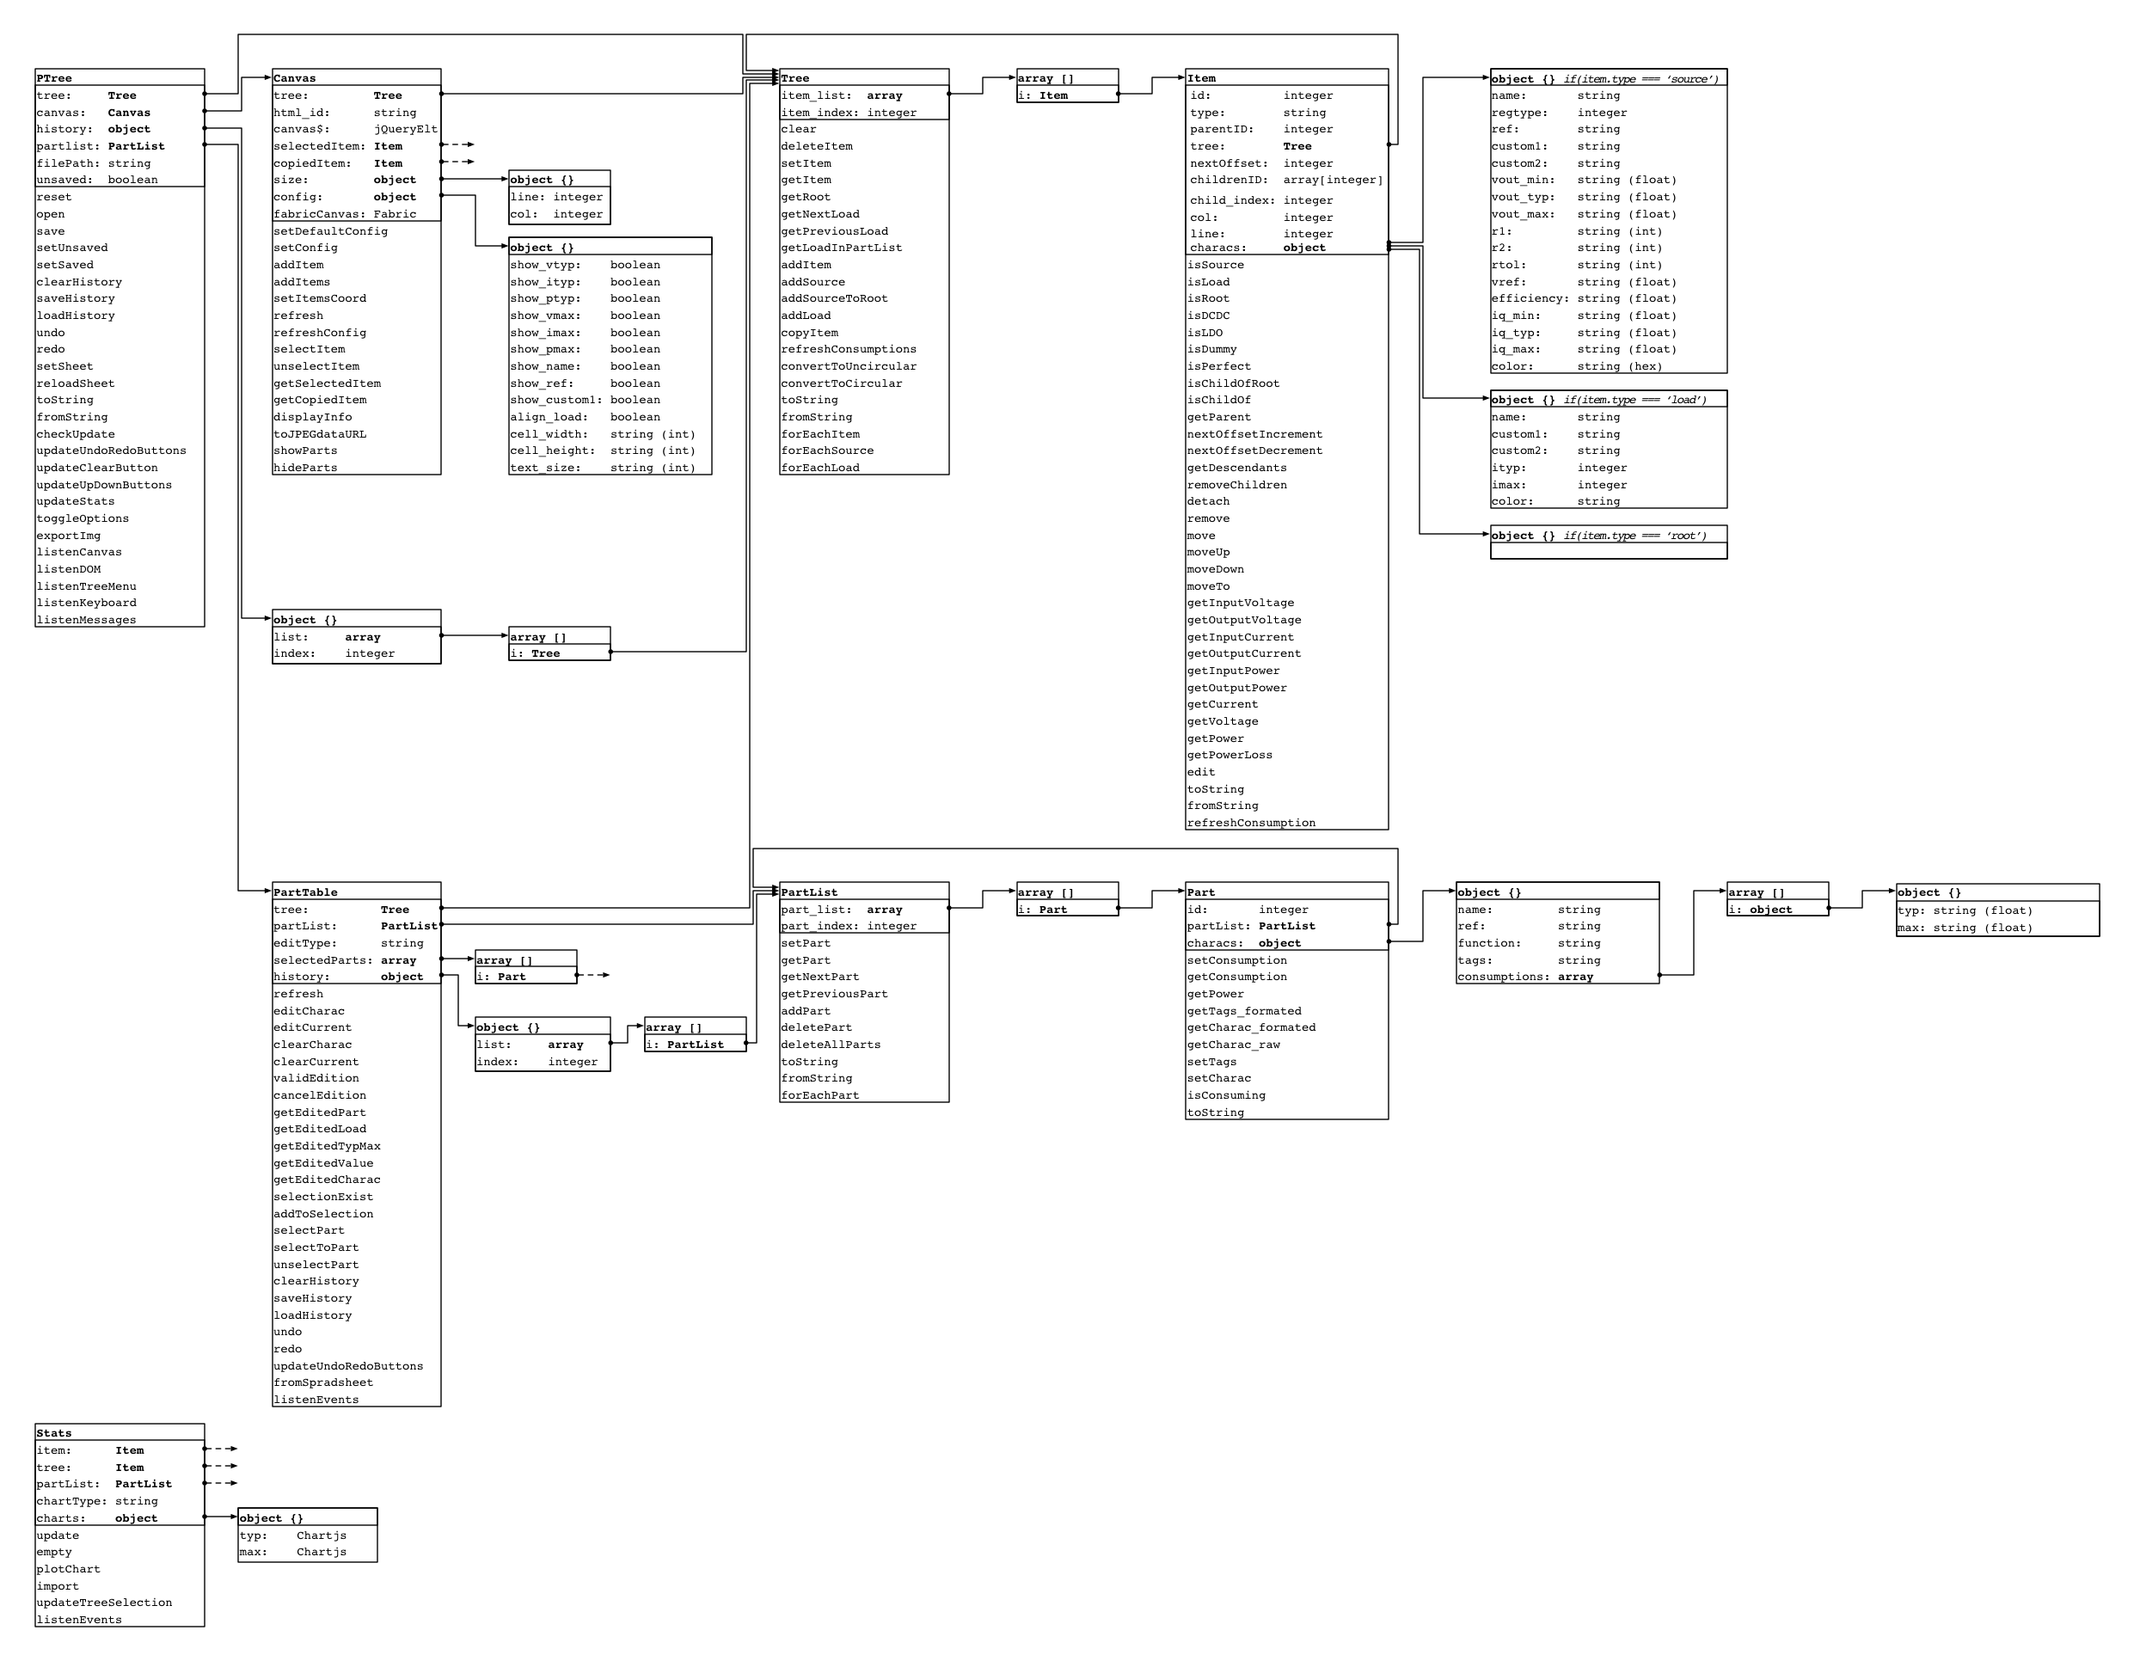
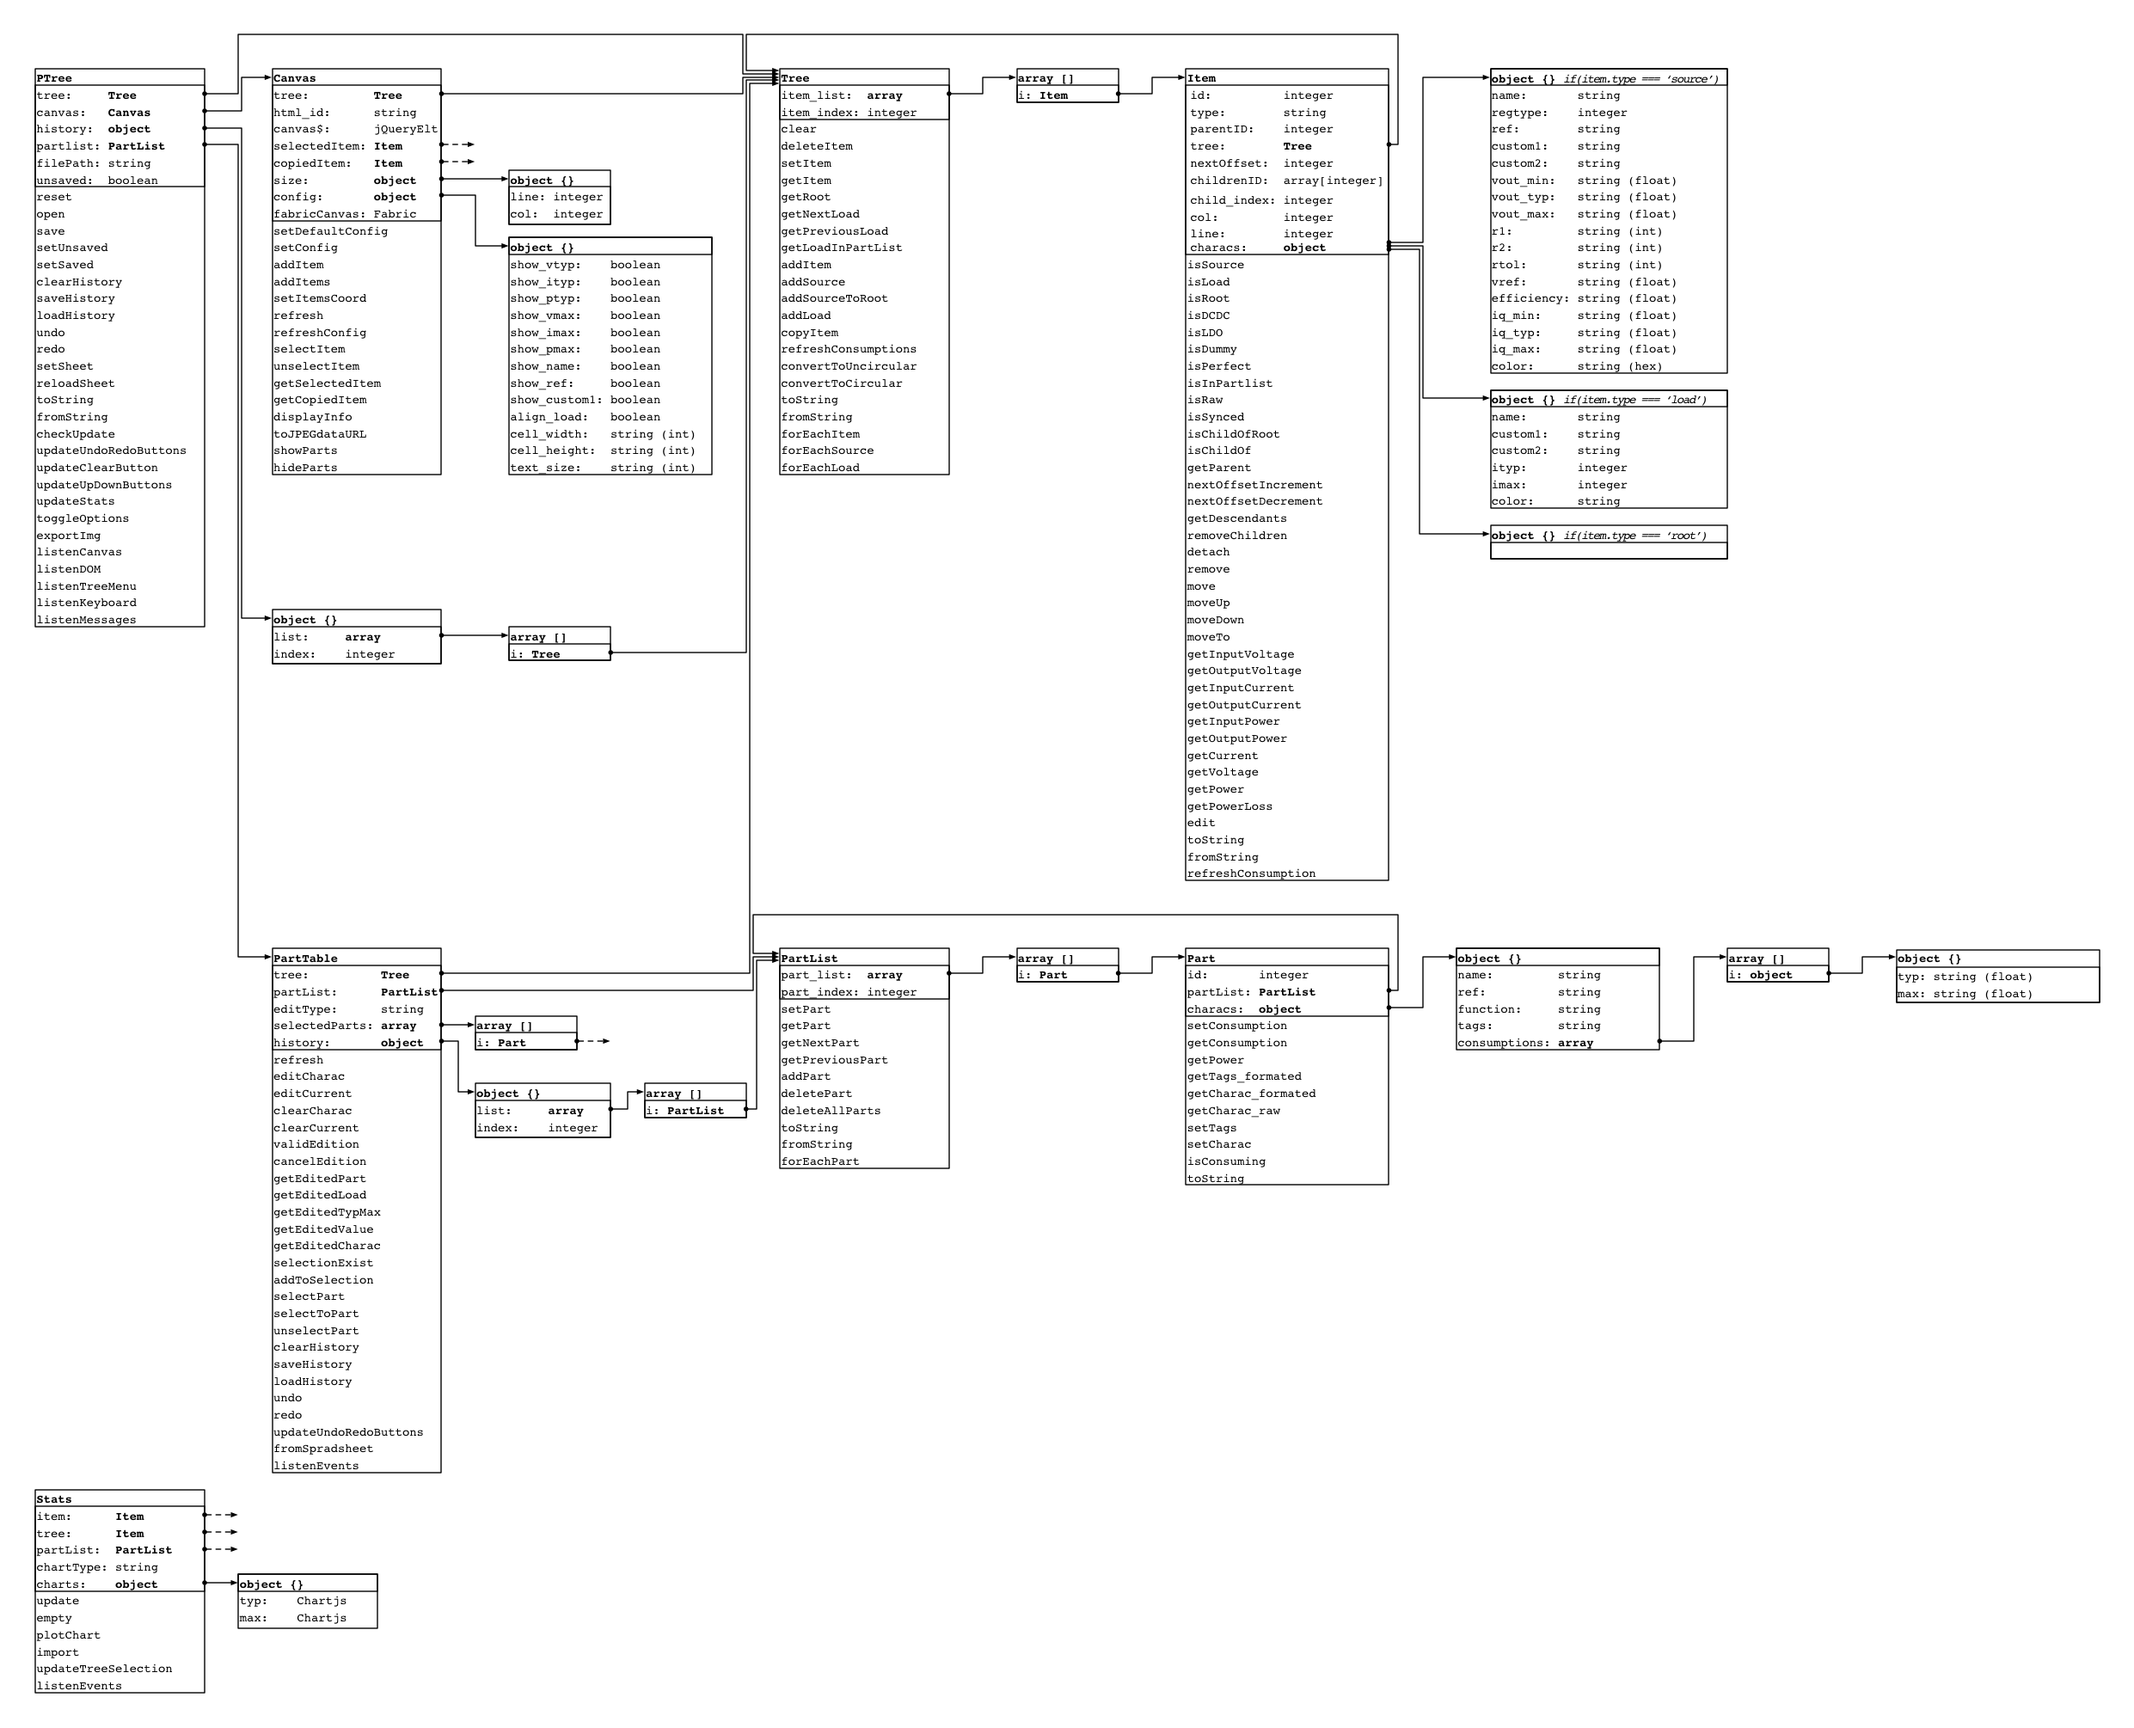
loads in partlist fixed

diff --git a/js/obj.Item.js b/js/obj.Item.js
@@ -115,27 +115,45 @@ Item.prototype.isChildOfRoot = function() {
 };
 
 
-// Check if the item is a DC/DC
+// Check if the item is a DC/DC reg
 Item.prototype.isDCDC = function() {
    return this.isSource() && ('0' == this.characs.regtype || '3' == this.characs.regtype);
 };
 
 
-// Check if the item is a LDO
+// Check if the item is a LDO reg
 Item.prototype.isLDO = function() {
    return this.isSource() && ('1' == this.characs.regtype || '4' == this.characs.regtype);
 };
 
 
-// Check if the item is a LDO
+// Check if the item is a Dummy reg
 Item.prototype.isDummy = function() {
    return this.isSource() && ('6' == this.characs.regtype);
 };
 
 
-// Check if the item is a LDO
+// Check if the item is a Perfect reg
 Item.prototype.isPerfect = function() {
    return this.isSource() && ('7' == this.characs.regtype);
+};
+
+
+// Check if the item is a load with the current in the partlist
+Item.prototype.isInPartlist = function() {
+   return this.isLoad() && ('0' == this.characs.loadtype);
+};
+
+
+// Check if the item is a load with the current defined as raw data
+Item.prototype.isRaw = function() {
+   return this.isLoad() && ('1' == this.characs.loadtype);
+};
+
+
+// Check if the item is a load with the current synced
+Item.prototype.isSynced = function() {
+   return this.isLoad() && ('2' == this.characs.loadtype);
 };
 
 
@@ -557,7 +575,7 @@ Item.prototype.edit = function(partList, sheet) {
 
    // if the load is not in the part list
    // remove all consumptions on the parts
-   if(!this.characs.inpartlist) {
+   if(!this.isInPartlist()) {
       let that = this;
       partList.forEachPart(function(part){
          if(part.isConsuming(that)) {

diff --git a/js/obj.PartTable.js b/js/obj.PartTable.js
@@ -48,7 +48,7 @@ PartTable.prototype.refresh = function() {
       // Part consumptions on each load
       // Can't use tree.forEachLoad() without creating an anonymous function in this loop
       for(let item of that.tree.item_list) {
-         if(item !== undefined && item.isLoad() && item.characs.inpartlist) {
+         if(item !== undefined && item.isLoad() && item.isInPartlist()) {
             // get the consumption on this item
             let ityp = part.getConsumption(item, 'typ');
             let imax = part.getConsumption(item, 'max');
@@ -510,7 +510,7 @@ PartTable.prototype.fromSpreadsheet = function(sheet_json) {
          let col_id = 5;
          // can not use that.tree.forEachLoad() because it need an anonymous functions which is not permited in a loop
          for(let item of this.tree.item_list) {
-            if(item !== undefined && item.isLoad() && item.characs.inpartlist) {
+            if(item !== undefined && item.isLoad() && item.isInPartlist()) {
                part.setConsumption(sheet_line[col_id],   item, 'typ');
                part.setConsumption(sheet_line[col_id+1], item, 'max');
                col_id += 2;

diff --git a/js/obj.Part.js b/js/obj.Part.js
@@ -61,7 +61,7 @@ Part.prototype.getPower = function(tree) {
 
    // Can't use tree.forEachLoad() without creating an anonymous function in this loop
    for (let item of tree.item_list) {
-      if (item !== undefined && item.isLoad() && item.characs.inpartlist) {
+      if (item !== undefined && item.isLoad() && item.isInPartlist()) {
          // get the consumption on this item
          let ityp = that.getConsumption(item, 'typ');
          let imax = that.getConsumption(item, 'max');

diff --git a/js/renderer.partTable.js b/js/renderer.partTable.js
@@ -24,7 +24,7 @@ $(function() {
 
       // complete the header of the table withe the list of loads
       partTable.tree.forEachLoad(function(load) {
-         if(load.characs.inpartlist) {
+         if(load.isInPartlist()) {
             let th1 =  `<th colspan="2" class="th_current">${load.characs.name}</th>`;
             $('.tr_top > .th_power:last-child').before(th1);
 

diff --git a/js/obj.Tree.js b/js/obj.Tree.js
@@ -83,7 +83,7 @@ Tree.prototype.getLoadInPartList = function(load, direction) {
    }
    else {
       // if the load is allowed in the partlist, return it
-      if(newload.characs.inpartlist) {
+      if(newload.isInPartlist()) {
          return newload;
       }
       // if the  load is not allowed, got an other one... recursively

diff --git a/js/obj.Stats.js b/js/obj.Stats.js
@@ -87,7 +87,7 @@ Stats.prototype.update = function() {
             }
          });
 
-         if(!this.item.characs.inpartlist || 0 === labels.length) {
+         if(!this.item.isInPartlist() || 0 === labels.length) {
             this.empty('No part');
             return;
          }
